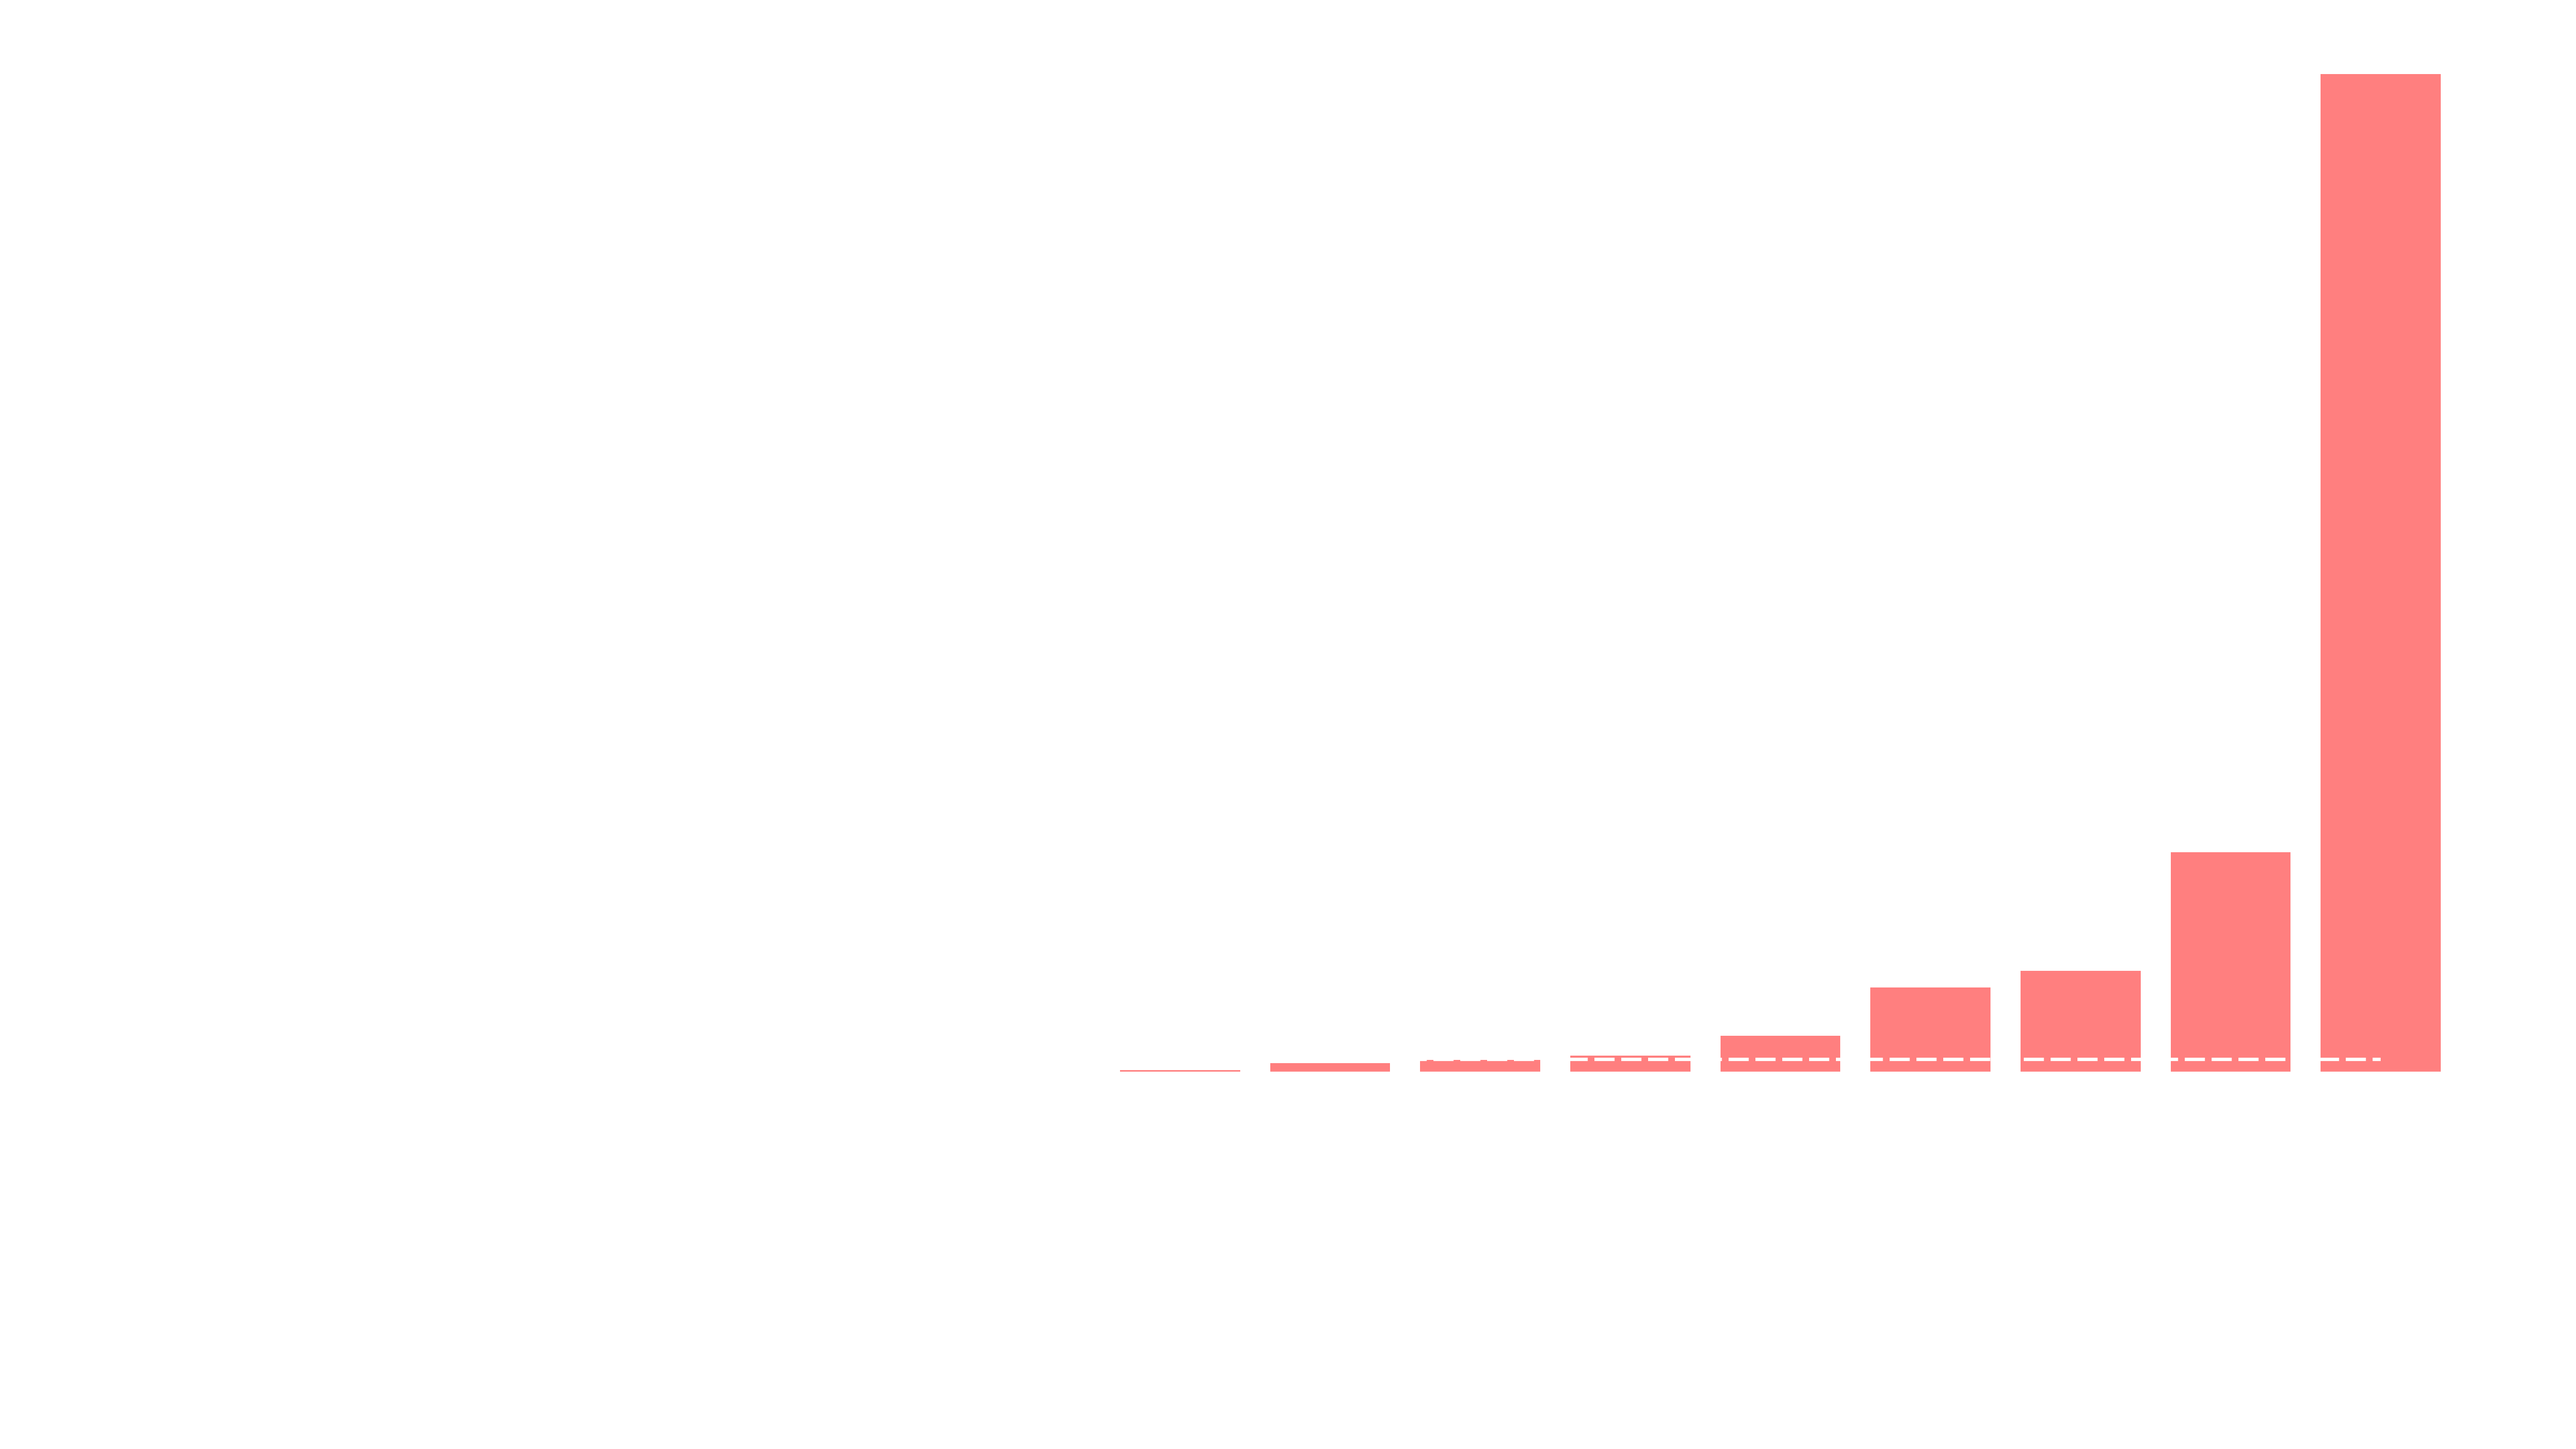
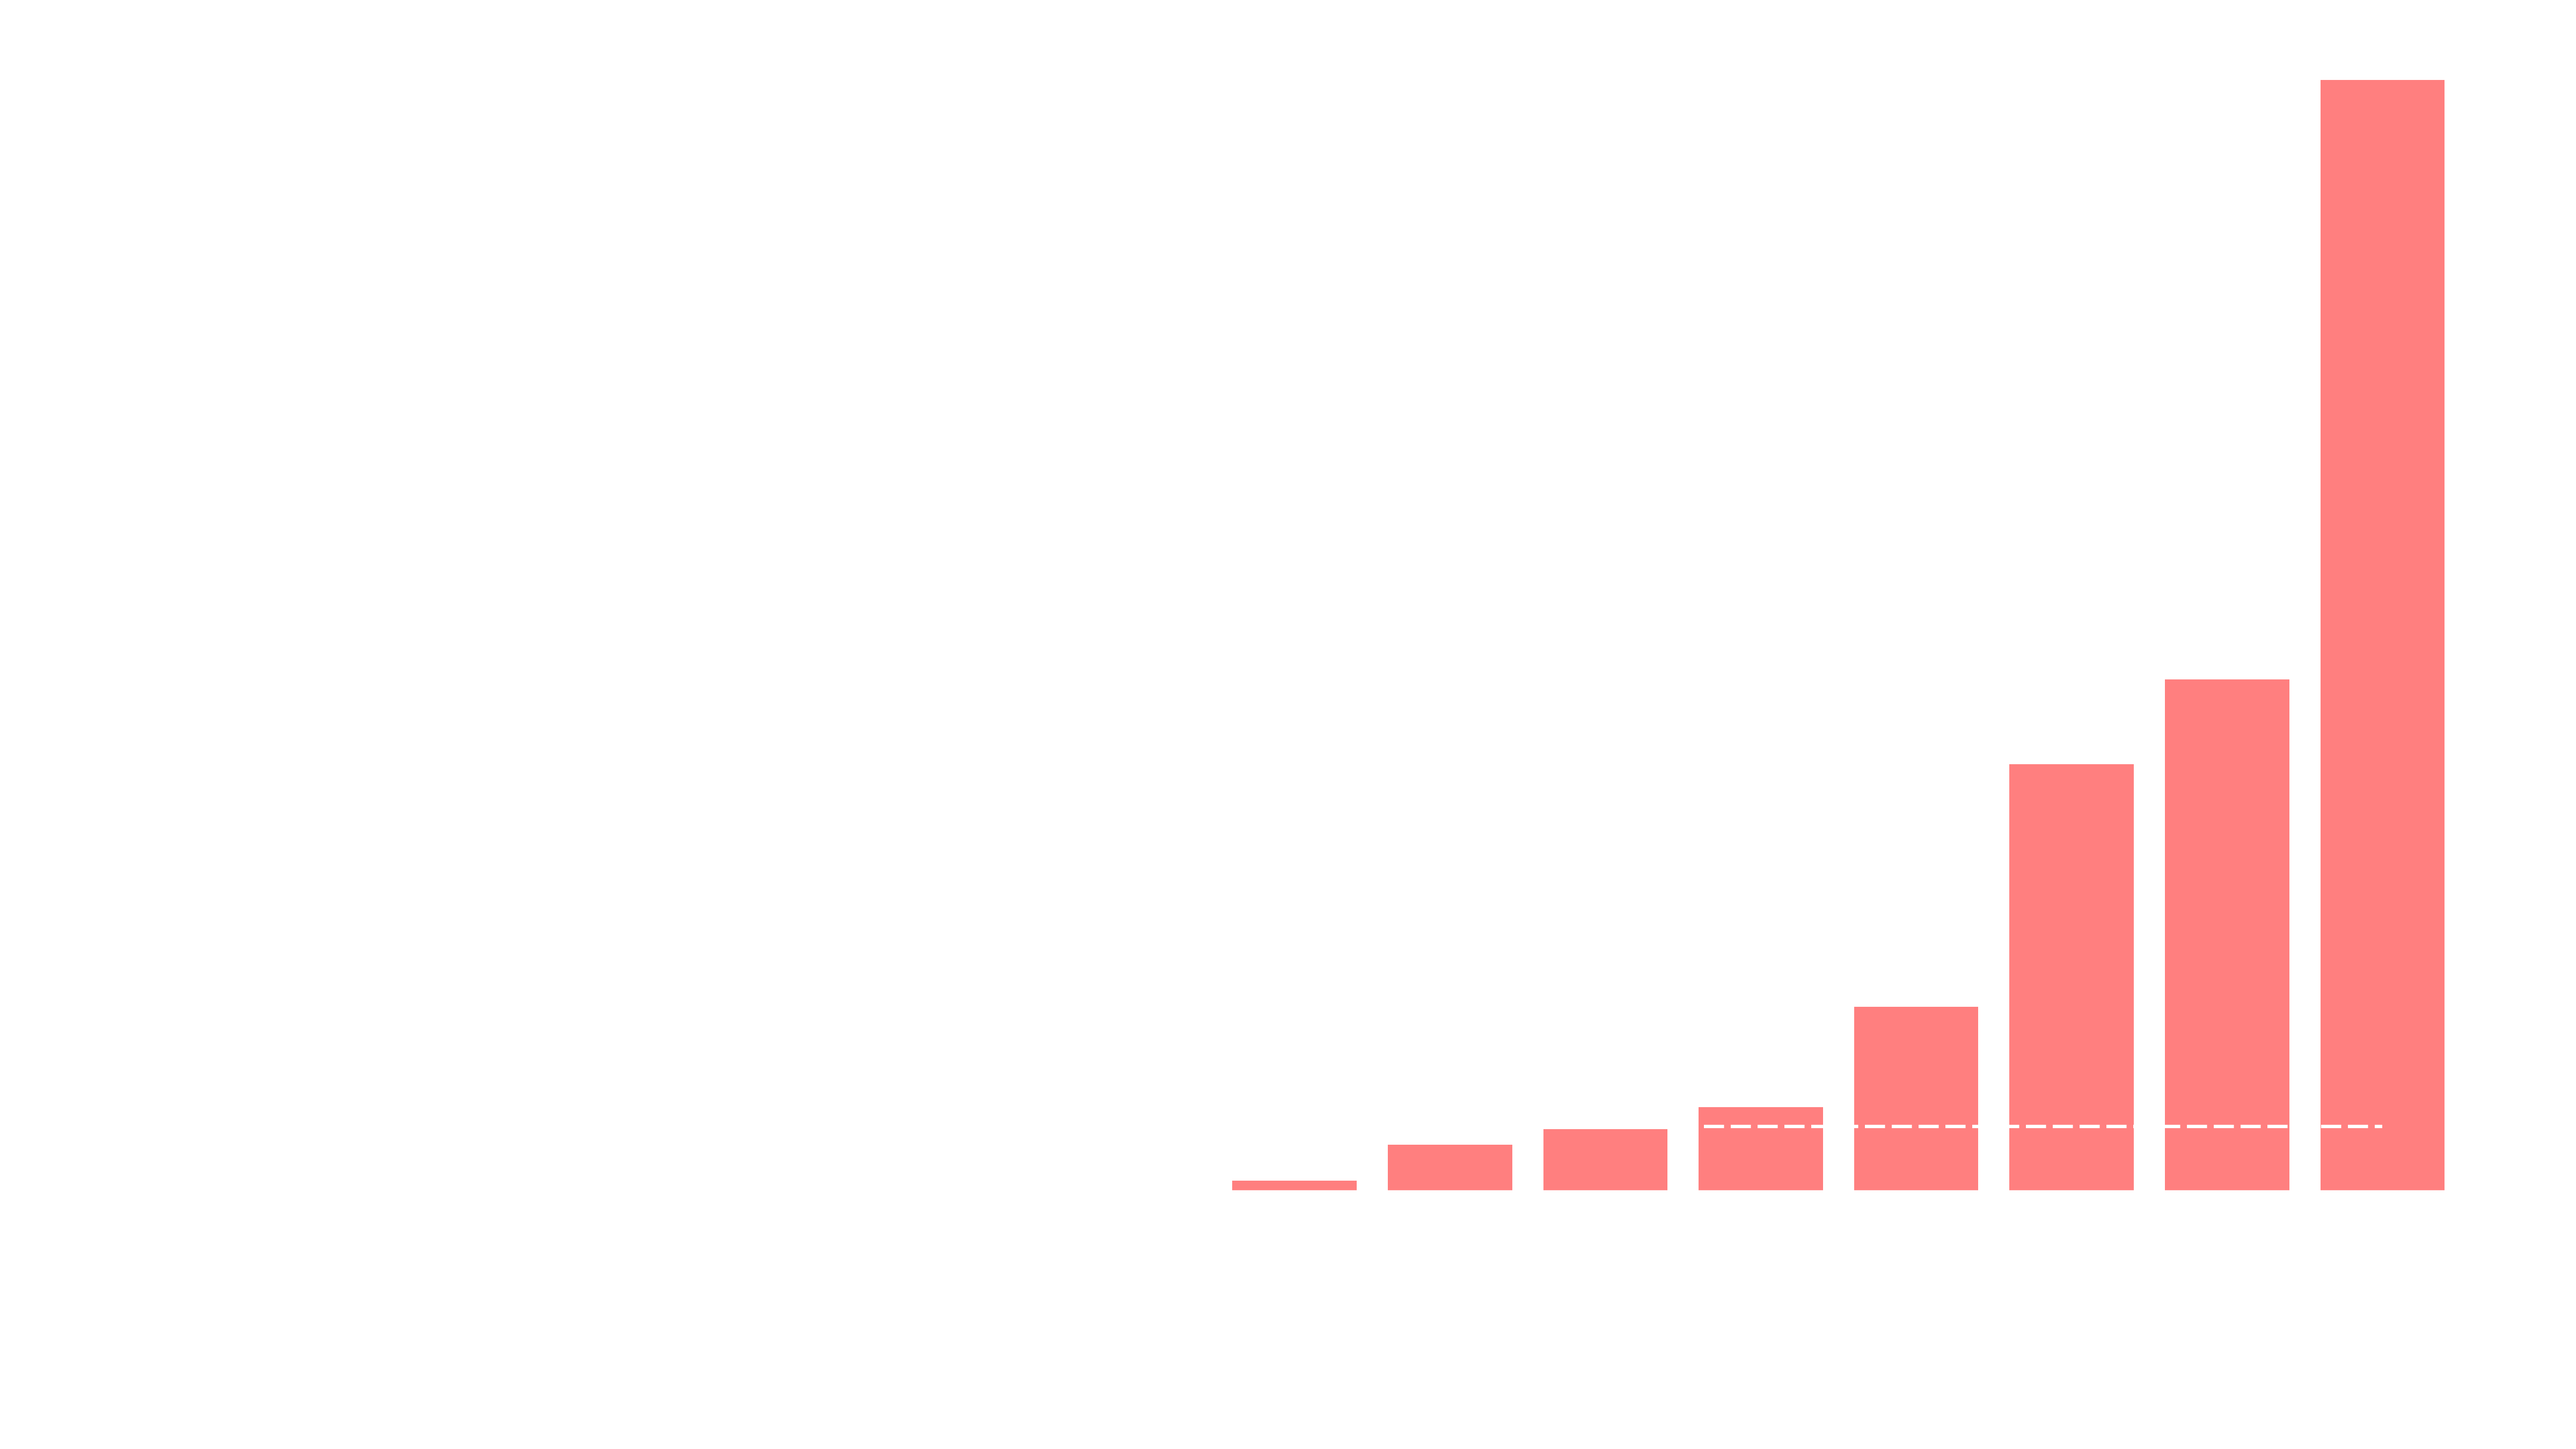
Modified syntax for self.sensitivity in label class so that a custom sensitivity can be applied when generating the summary

Changed region(s): [[0.4688, 0.4667, 0.9688, 0.84], [0.9062, 0.0311, 0.9375, 0.0622]]

diff --git a/exmoset/molset.py b/exmoset/molset.py
@@ -130,16 +130,13 @@ class MolSet():
         """
         import matplotlib.pyplot as plt
         from matplotlib import cm
-        label_dict    = {key : (self.label_dict[key].entropy,self.label_dict[key].sensitivity) for key in self.label_dict}
-        label_dict    = {key : val for key, val in sorted(label_dict.items(), key=lambda item: item[1])}
+        label_dict_sorted    = {key : (self.label_dict[key].entropy,self.label_dict[key].sensitivity) for key in self.label_dict}
+        label_dict_sorted    = {key : val for key, val in sorted(label_dict_sorted.items(), key=lambda item: item[1])}
         plt.style.use("exmoset/utils/matplotlibrc")
-        plt.bar(range(len(label_dict)), [x[0] for x in label_dict.values()], align="center",alpha=0.5,color="r")
-        plt.xticks(range(len(label_dict)), list(label_dict.keys()), rotation=45, ha='right')
-        plt.ylabel("Entropy",fontsize=16)
-        plt.plot(range(len(label_dict)), [x[1] for x in label_dict.values()], dashes=[6,2],color='w')
-        ax = plt.gca()
-        ax.spines['right'].set_visible(False)
-        ax.spines['top'].set_visible(False)
+        plt.bar(range(len(label_dict_sorted)), [x[0] for x in label_dict_sorted.values()], align="center",alpha=0.5,color="r")
+        plt.xticks(range(len(label_dict_sorted)), list(label_dict_sorted.keys()), rotation=45, ha='right')
+        plt.ylabel("Entropy",fontsize=30)
+        plt.plot(range(len(label_dict_sorted)), [x[1] for x in label_dict_sorted.values()], dashes=[6,2],color='w')
         plt.tight_layout()
         return plt.gcf()
 

diff --git a/exmoset/fingerprints/general.py b/exmoset/fingerprints/general.py
@@ -46,12 +46,12 @@ general_fingerprints = [Fingerprint(name="Aromatic",
                                 label_type="continuous",
                                 calculator=Dipole_Moment,
                                 mol_format="smiles",
-                                file=True),
-
-                    Fingerprint(name="Electronic Spatial Extent",
-                                verb="",
-                                context="Molecules",
-                                label_type="continuous",
-                                calculator=Electronic_Spatial_Extent,
-                                mol_format="smiles",
                                 file=True)]
+
+"""Fingerprint(name="Electronic Spatial Extent",
+            verb="",
+            context="Molecules",
+            label_type="continuous",
+            calculator=Electronic_Spatial_Extent,
+            mol_format="smiles",
+            file=True)]"""

diff --git a/exmoset/labels/continuous.py b/exmoset/labels/continuous.py
@@ -25,12 +25,14 @@ class Continuous(Label):
         ent = continuous.get_h(self.values,k=k,norm=norm,min_dist=min_dist)
         return ent
 
-    def summary(self):
+    def summary(self,sensitivity=None):
         """
         A continuous label summary.
 
         Grammatical Structure
         <noun> share a similar <property> centred around <average value>
         """
-        if self.entropy < self.sensitivity:
+        if not sensitivity:
+            sensitivity = self.sensitivity
+        if self.entropy < sensitivity:
             return f"{self.noun} share a similar {self.name} centred around {self.av:.4f}"

diff --git a/exmoset/labels/binary.py b/exmoset/labels/binary.py
@@ -18,7 +18,9 @@ class Binary(Label):
         self.av          = np.round(np.mean(values))
         self.entropy     = self.entropy()
 
-    def summary(self,verbose=False):
-        if self.entropy < self.sensitivity:
+    def summary(self,sensitivity=None):
+        if not sensitivity:
+            sensitivity = self.sensitivity
+        if self.entropy < sensitivity:
             description = f"{self.noun} {self.verb} {self.property}"
             return description if self.av > 0.5 else self.neg(description)

diff --git a/exmoset/labels/multiclass.py b/exmoset/labels/multiclass.py
@@ -18,7 +18,9 @@ class Multiclass(Label):
         self.av          = np.int(np.mean(values))
         self.entropy     = self.entropy()
 
-    def summary(self,verbose=False):
-        if self.entropy < self.sensitivity:
+    def summary(self,sensitivity=None):
+        if not sensitivity:
+            sensitivity = self.sensitivity
+        if self.entropy < sensitivity:
             description = f"{self.noun} {self.verb} {self.av} {self.name}"
             return description
